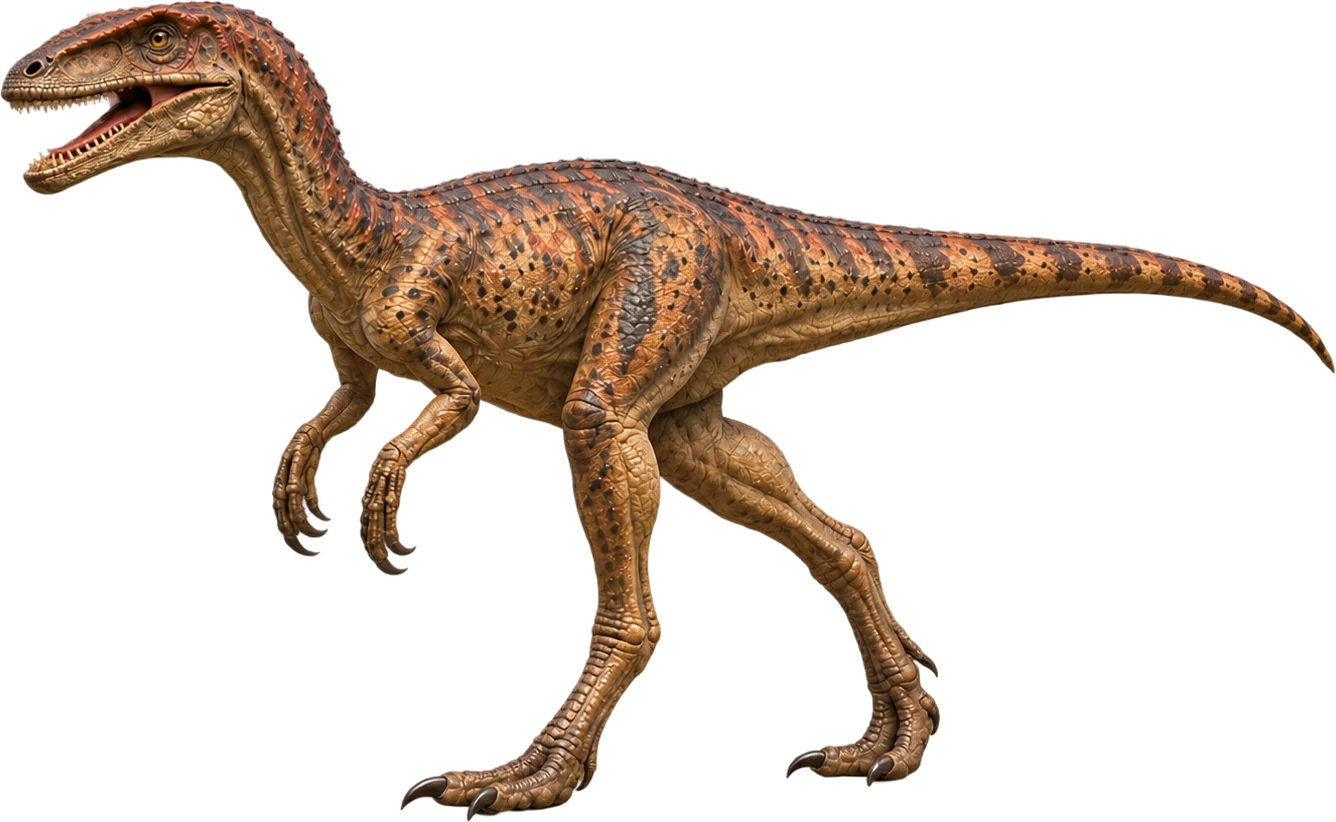
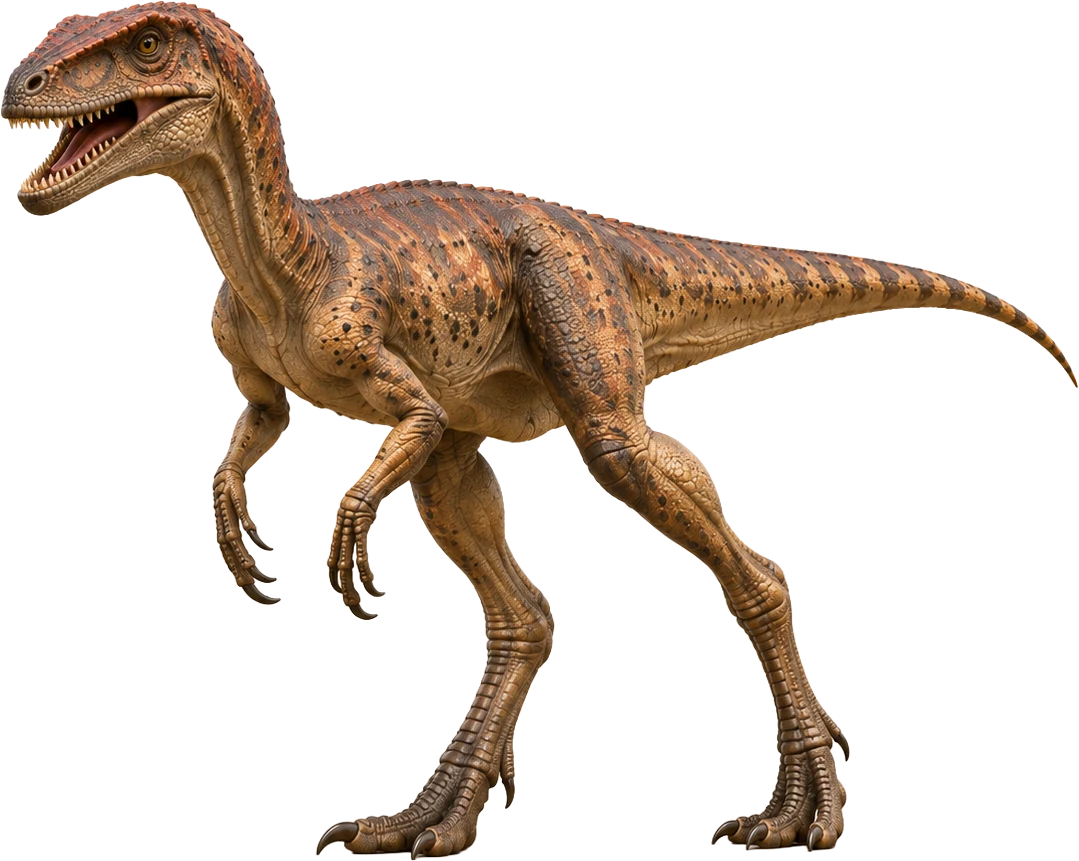
Add Dilophosaurus, Stegosaurus and Allosaurus art; update three heroes; fix the slideshow controls

Changed region(s): [[0.0, 0.0, 1.0, 1.0]]

diff --git a/js/photos.js b/js/photos.js
@@ -39,6 +39,9 @@ const PHOTOS = {
     {"file": "plateosaurus-5.jpg", "w": 1280, "h": 675, "kind": "Skeleton", "alt": "A skeleton set into a wall.", "by": "Ghedoghedo", "lic": "CC BY-SA 3.0", "licurl": "https://creativecommons.org/licenses/by-sa/3.0", "page": "https://commons.wikimedia.org/wiki/File:Plateosaurus_engelhardti.JPG"}
   ],
   dilophosaurus: [
+    {"file": "dilophosaurus-art-1.jpg", "w": 1400, "h": 788, "kind": "Artwork", "alt": "How it might have looked at home, among conifers, cycads and ferns. The colors are a guess.", "by": "Made for this site"},
+    {"file": "dilophosaurus-art-2.jpg", "w": 1122, "h": 1402, "kind": "Artwork", "alt": "Up close.", "by": "Made for this site"},
+    {"file": "dilophosaurus-art-3.jpg", "w": 822, "h": 760, "kind": "Artwork", "alt": "Face to face.", "by": "Made for this site"},
     {"file": "dilophosaurus-1.jpg", "w": 1280, "h": 460, "kind": "Artwork", "alt": "How one artist pictures it, with a pair of crests.", "by": "Connor Ashbridge", "lic": "CC BY 4.0", "licurl": "https://creativecommons.org/licenses/by/4.0", "page": "https://commons.wikimedia.org/wiki/File:Life_reconstruction_of_Dilophosaurus_wetherilli.png", "cut": true},
     {"file": "dilophosaurus-2.jpg", "w": 1280, "h": 960, "kind": "Fossil", "alt": "A skeleton laid out as it might be found, at the Royal Ontario Museum.", "by": "Eduard Solà", "lic": "CC BY-SA 3.0", "licurl": "https://creativecommons.org/licenses/by-sa/3.0", "page": "https://commons.wikimedia.org/wiki/File:DilophosaurusROM2.JPG"},
     {"file": "dilophosaurus-3.jpg", "w": 1144, "h": 960, "kind": "Skull", "alt": "A skull with its crest, at the American Museum of Natural History.", "by": "Eden, Janine and Jim", "lic": "CC BY 2.0", "licurl": "https://creativecommons.org/licenses/by/2.0", "page": "https://commons.wikimedia.org/wiki/File:Dilophosaurus_skull_AMNH.jpg"},
@@ -46,6 +49,8 @@ const PHOTOS = {
     {"file": "dilophosaurus-5.jpg", "w": 1280, "h": 915, "kind": "Artwork", "alt": "Resting like a bird. Real tracks show a dinosaur sitting this way.", "by": "Heather Kyoht Luterman", "lic": "CC BY 2.5", "licurl": "https://creativecommons.org/licenses/by/2.5", "page": "https://commons.wikimedia.org/wiki/File:Dilophosaurus_in_bird-like_resting_pose.jpg"}
   ],
   stegosaurus: [
+    {"file": "stegosaurus-art-1.jpg", "w": 1400, "h": 788, "kind": "Artwork", "alt": "How it might have looked at home, among conifers, cycads and ferns. The colors are a guess.", "by": "Made for this site"},
+    {"file": "stegosaurus-art-2.jpg", "w": 1122, "h": 1402, "kind": "Artwork", "alt": "Up close.", "by": "Made for this site"},
     {"file": "stegosaurus-1.jpg", "w": 1280, "h": 618, "kind": "Artwork", "alt": "A painting based on “Sophie”, one of the most complete Stegosaurus skeletons.", "by": "Fred Wierum", "lic": "CC BY-SA 4.0", "licurl": "https://creativecommons.org/licenses/by-sa/4.0", "page": "https://commons.wikimedia.org/wiki/File:Stegosaurus_stenops_Life_Reconstruction.png", "cut": true},
     {"file": "stegosaurus-2.jpg", "w": 1280, "h": 902, "kind": "Skeleton", "alt": "A skeleton at the Carnegie Museum in Pittsburgh.", "by": "Perry Quan", "lic": "CC BY-SA 2.0", "licurl": "https://creativecommons.org/licenses/by-sa/2.0", "page": "https://commons.wikimedia.org/wiki/File:Stegosaurus_ungulatus.jpg"},
     {"file": "stegosaurus-3.jpg", "w": 1280, "h": 770, "kind": "Skeleton", "alt": "“Sophie” at the Natural History Museum, London.", "by": "Susannah Maidment and others, Natural History Museum, London", "lic": "CC BY 4.0", "licurl": "https://creativecommons.org/licenses/by/4.0", "page": "https://commons.wikimedia.org/wiki/File:Journal.pone.0138352.g001A.jpg", "cut": true},
@@ -53,6 +58,10 @@ const PHOTOS = {
     {"file": "stegosaurus-5.jpg", "w": 1124, "h": 960, "kind": "Skeleton", "alt": "A copy of a skeleton, rearing up, in Houston.", "by": "Evolutionnumber9", "lic": "CC BY-SA 4.0", "licurl": "https://creativecommons.org/licenses/by-sa/4.0", "page": "https://commons.wikimedia.org/wiki/File:HMNS_Stegosaurus.jpg"}
   ],
   allosaurus: [
+    {"file": "allosaurus-art-1.jpg", "w": 1400, "h": 788, "kind": "Artwork", "alt": "How it might have looked at home, among conifers and ferns. The colors are a guess.", "by": "Made for this site"},
+    {"file": "allosaurus-art-2.jpg", "w": 1122, "h": 1402, "kind": "Artwork", "alt": "Up close.", "by": "Made for this site"},
+    {"file": "allosaurus-art-3.jpg", "w": 822, "h": 700, "kind": "Artwork", "alt": "Face to face.", "by": "Made for this site"},
+    {"file": "allosaurus-art-4.jpg", "w": 1122, "h": 1402, "kind": "Artwork", "alt": "Looking back.", "by": "Made for this site"},
     {"file": "allosaurus-1.jpg", "w": 1280, "h": 586, "kind": "Artwork", "alt": "How one artist pictures it.", "by": "Fred Wierum", "lic": "CC BY-SA 4.0", "licurl": "https://creativecommons.org/licenses/by-sa/4.0", "page": "https://commons.wikimedia.org/wiki/File:Allosaurus_Revised.jpg", "cut": true},
     {"file": "allosaurus-2.jpg", "w": 1188, "h": 960, "kind": "Skeleton", "alt": "“Big Al II”, one of the best Allosaurus skeletons.", "by": "The_Wookies", "lic": "CC BY 2.5", "licurl": "https://creativecommons.org/licenses/by/2.5", "page": "https://commons.wikimedia.org/wiki/File:WLA_hmns_Allosaurus_White_Background.jpg", "cut": true},
     {"file": "allosaurus-3.jpg", "w": 1280, "h": 679, "kind": "Skeleton", "alt": "Leaning over a meal of bones at the American Museum of Natural History.", "by": "ScottRobertAnselmo", "lic": "CC BY-SA 3.0", "licurl": "https://creativecommons.org/licenses/by-sa/3.0", "page": "https://commons.wikimedia.org/wiki/File:AMNH_Allosaurus.jpg"},

diff --git a/js/common.js b/js/common.js
@@ -200,9 +200,12 @@ const plantsHTML = list => list.map((x, n) => `<div class="club-plant club-plant
 // w, h: the file's own size. at: left, top, width and height in the design's pixels. print: its own footprint (not shown at the moment).
 const HERO_ART = {
   tyrannosaurus: { src: "images/hero/trex.webp", w: 1448, h: 1086, at: [81, 325, 1448, 1086], globe: "images/hero/globe-trex.webp", crown: true },
-  eoraptor: { src: "images/hero/eoraptor.webp", w: 1336, h: 822, at: [125, 473, 1470, 904], print: "images/hero/print-eoraptor.webp" },
-  herrerasaurus: { src: "images/hero/herrerasaurus.webp", w: 1065, h: 929, at: [128, 344, 1185, 1033], print: "images/hero/print-herrerasaurus.webp" },
-  coelophysis: { src: "images/hero/coelophysis.webp", w: 1082, h: 1116, at: [230, 306, 1038, 1071], print: "images/hero/print-coelophysis.webp" }
+  eoraptor: { src: "images/hero/eoraptor.webp", w: 1079, h: 861, at: [110, 388, 1246, 994], print: "images/hero/print-eoraptor.webp" },
+  herrerasaurus: { src: "images/hero/herrerasaurus.webp", w: 1003, h: 991, at: [180, 342, 1050, 1037], print: "images/hero/print-herrerasaurus.webp" },
+  coelophysis: { src: "images/hero/coelophysis.webp", w: 1082, h: 1116, at: [230, 306, 1038, 1071], print: "images/hero/print-coelophysis.webp" },
+  dilophosaurus: { src: "images/hero/dilophosaurus.webp", w: 1076, h: 1229, at: [340, 330, 918, 1049] },
+  stegosaurus: { src: "images/hero/stegosaurus.webp", w: 1043, h: 1085, at: [250, 382, 958, 997] },
+  allosaurus: { src: "images/hero/allosaurus.webp", w: 1062, h: 1108, at: [230, 326, 1008, 1052] }
 };
 // Each period has a pair of plants (PLANTS, in common.js).
 // Checked against what's been found in (or close to) the rocks each dinosaur comes from, so some have their own pair.

diff --git a/js/credits.js b/js/credits.js
@@ -41,6 +41,6 @@ document.getElementById("page").innerHTML = `
   </section>
   <section class="panel">
     <h2>Type, artwork and sound</h2>
-    <p>Set in Bookmania, Gotham and Bulletin Typewriter, from <a href="https://fonts.adobe.com/">Adobe Fonts</a>, with <a href="https://fonts.google.com/specimen/Archivo">Archivo</a> as a backup (SIL Open Font License). The big T. rex picture, and the Eoraptor, Herrerasaurus, Coelophysis and Dilophosaurus artwork, were made for this site. Names are spoken by <a href="https://huggingface.co/hexgrad/Kokoro-82M">Kokoro</a>, an open computer voice (Apache 2.0).</p>
+    <p>Set in Bookmania, Gotham and Bulletin Typewriter, from <a href="https://fonts.adobe.com/">Adobe Fonts</a>, with <a href="https://fonts.google.com/specimen/Archivo">Archivo</a> as a backup (SIL Open Font License). The big T. rex picture, and the Eoraptor, Herrerasaurus, Coelophysis, Dilophosaurus, Stegosaurus and Allosaurus artwork, were made for this site. Names are spoken by <a href="https://huggingface.co/hexgrad/Kokoro-82M">Kokoro</a>, an open computer voice (Apache 2.0).</p>
     <p>The dinosaur calls are best guesses: nobody has heard a dinosaur. We made them from <a href="https://www.nps.gov/subjects/sound/gallery.htm">National Park Service recordings</a> (public domain): an American alligator from Everglades, bison from Yellowstone and a common raven from Grand Teton. We cleaned them up, slowed them down and layered them. The Parasaurolophus horn is made by computer.</p>
   </section>`;

diff --git a/css/home.css b/css/home.css
@@ -142,7 +142,7 @@
 .dig-meter { height: 26px; border: 2px solid var(--ink); border-radius: 99px; background: #fff; overflow: hidden; }
 .dig-meter i { display: block; width: 0; height: 100%; background: var(--clay); transition: width .25s; }
 .dig-status { margin: 0; min-width: 9ch; text-align: right; }
-.dig-case { display: grid; grid-template-columns: repeat(auto-fit, minmax(min(220px, 44%), 1fr)); gap: clamp(10px, 1.2vw, 20px); list-style: none; margin: clamp(24px, 3vw, 48px) 0 24px; padding: 0; }
+.dig-case { display: grid; grid-template-columns: repeat(auto-fit, minmax(min(190px, 44%), 1fr)); gap: clamp(10px, 1.2vw, 20px); list-style: none; margin: clamp(24px, 3vw, 48px) 0 24px; padding: 0; }
 .dig-case li { display: grid; gap: 8px; padding: 14px; border-radius: 8px; text-align: center; background: rgba(255, 255, 255, .28); font: 700 clamp(14px, 1.1vw, 18px)/1.2 var(--label); }
 .dig-case img { width: 100%; height: auto; aspect-ratio: 5 / 2; object-fit: contain; }
 .dig-case li:not(.is-got) img { filter: brightness(0); opacity: .16; }

diff --git a/css/hero.css b/css/hero.css
@@ -75,7 +75,7 @@ a.club-fact:hover p { text-decoration: underline; text-decoration-thickness: 2px
 .club .photo:not(.is-on):not(:only-child) > :first-child { opacity: 1; }
 .club .photo figcaption { margin-top: calc(var(--u) * 16); font: 400 max(14px, calc(var(--u) * 16))/1.15 var(--type); }
 .club .photo .by { font-size: inherit; opacity: 1; }
-.club .photo-nav { justify-content: center; gap: calc(var(--u) * 39); margin-top: calc(var(--u) * 16); }
+.club .photo-nav { display: flex; align-items: center; justify-content: center; gap: calc(var(--u) * 39); margin-top: calc(var(--u) * 16); }
 .club .photo-nav button { flex: none; width: max(48px, calc(var(--u) * 64)); aspect-ratio: 1; padding: 0; border: 2px solid var(--black); border-radius: 50%; background: none; color: inherit; cursor: pointer; }
 .club .photo-nav svg { display: block; width: 100%; height: 100%; fill: none; stroke: currentColor; stroke-width: 2.5; }
 .club .photo-nav button:hover { background: var(--black); color: var(--ivory); }

diff --git a/js/size.js b/js/size.js
@@ -7,7 +7,10 @@ const BUS_M = { length: 12, height: 3.2 };
 const SIZE_ART = {
   eoraptor: { src: "images/side/eoraptor.webp", w: 1200, h: 481, span: .96 },
   herrerasaurus: { src: "images/side/herrerasaurus.webp", w: 1200, h: 457, span: .96 },
-  coelophysis: { src: "images/side/coelophysis.webp", w: 1200, h: 389, span: .96 }
+  coelophysis: { src: "images/side/coelophysis.webp", w: 1200, h: 389, span: .96 },
+  dilophosaurus: { src: "images/side/dilophosaurus.webp", w: 1200, h: 516, span: .96 },
+  stegosaurus: { src: "images/side/stegosaurus.webp", w: 1200, h: 580, span: .96 },
+  allosaurus: { src: "images/side/allosaurus.webp", w: 1200, h: 524, span: .96 }
 };
 function sizeArt(d, color) {
   const art = SIZE_ART[d.id];

diff --git a/js/bones.js b/js/bones.js
@@ -1,7 +1,7 @@
 // The dig: brush the dirt off a buried skeleton. Skeletons are images/bones/<id>.webp, all facing left.
 {
 const $ = id => document.getElementById(id);
-const DIGS = ["coelophysis", "eoraptor", "herrerasaurus", "dilophosaurus"];
+const DIGS = ["coelophysis", "eoraptor", "herrerasaurus", "dilophosaurus", "stegosaurus", "allosaurus"];
 const DONE = .86; // how much of the skeleton has to show
 const calm = matchMedia("(prefers-reduced-motion: reduce)").matches;
 const site = $("dig-site"), bones = $("dig-bones"), dirt = $("dig-dirt"), dust = $("dig-dust");
